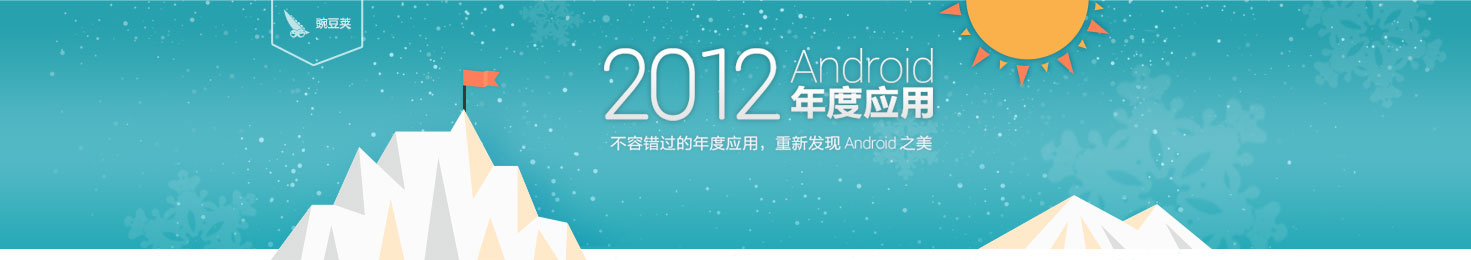
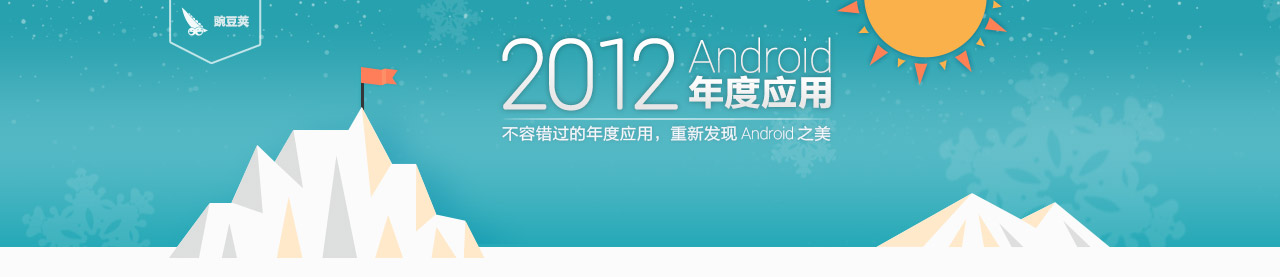
95% accomplished

diff --git a/app/cat.html b/app/cat.html
@@ -3,22 +3,31 @@
     <head>
         <meta charset="utf-8">
         <meta http-equiv="X-UA-Compatible" content="IE=edge,chrome=1">
-        <title></title>
+        <title>豌豆荚 2012 Android 年度应用 - 分类最佳</title>
         <meta name="description" content="">
         <meta name="viewport" content="width=device-width">
         <!-- Place favicon.ico and apple-touch-icon.png in the root directory -->
         <link rel="stylesheet" href="styles/main.css">
         <script src="http://wandoujia.com/api/wdapi.js"></script>
         <script>
+var _gaq=[['_setAccount','UA-XXXXX-X'],['_trackPageview']];
+// GA
+function ga(content) {
+    _gaq.push(['_trackEvent', 'Rewind-2012'].concat(content.split(':')));
+}
+function isWdj() {
+    return window.OneRingRequest !== undefined && window.OneRingStreaming !== undefined;
+}
 var meta = {
     data: 'api/cat.json'
 };
         </script>
     </head>
     <body>
+        <a href="http://www.wandoujia.com" class="logo"></a>
         <div class="nav">
             <a href="data.html" class="data"><i></i><span>有趣数据</span></a>
-            <a href="best.html" class="best"><i></i><span>年度应用</span></a>
+            <a href="best.html" class="best" onclick="ga('c2b')"><i></i><span>年度应用</span></a>
             <a href="cat.html" class="cat cat-active"><i></i><span>分类最佳</span></a>
         </div>
         <div class="category">
@@ -50,7 +59,8 @@ var meta = {
 <div id="group-<%= i %>" class="row">
     <% _.each(group, function(block){ %>
         <% if (block.type === 'app') { %>
-    <div class="block block-<%= block.badge === 'choice' ? '2-5' : block.badge === 'best' ? '1-2' : '1-5' %>" style="background-image:url('<%= block.background[1] %>')">
+    <div class="block block-<%= block.badge === 'choice' ? '2-5' : block.badge === 'best' ? '1-2' : '1-5' %>" style="background-image:url('<%= isWdj() ? block.background[0] : block.background[1] %>')">
+    <% if (block.name !== '从缺') { %>
         <span class="panel">
             <span class="icon" style="background-image:url('<%= block.icons[0] %>')"></span>
             <span class="name"><%= block.name %></span>
@@ -64,14 +74,13 @@ var meta = {
         <% } else if (block.badge) { %>
         <span class="badge"><%= block.badge %></span>
         <% } %>
-        <% if (block.name !== '从缺') { %>
         <span class="preview">
             <span class="name"><span class="icon" style="background-image:url('<%= block.icons[0] %>')"></span><%= block.name %></span>
             <span class="info" title="<%= block.tip.content %>"><%= block.tip.content.length > 20 ? block.tip.content.slice(0, 18) + '...' : block.tip.content || '' %></span>
-            <a class="btn-install" href="http://apps.wandoujia.com/apps/<%= block.pn %>/download" name="<%= block.name %>" onclick="return wdapi_apkdl_m(this, 'source');" title="通过豌豆荚下载">安装</a>
+            <a class="btn-install" href="http://apps.wandoujia.com/apps/<%= block.pn %>/download<%= isWdj() ? '#content-type=application&name='+block.name+'&icon='+block.icons[1] : '' %>" name="<%= block.name %>" onclick="ga('download:<%= block.pn %>'); if (!isWdj()) return wdapi_apkdl_m(this, 'source');" title="通过豌豆荚下载">安装</a>
             <a href="###" class="btn-detail" data-modal="<%= block.pn %>">详情</a>
         </span>
-        <% } %>
+    <% } %>
     </div>
         <% } else if (block.type === 'text' && block.cat === 'cat') { %>
     <div class="block-text-1">
@@ -104,7 +113,7 @@ var meta = {
         <div class="app">
             <div class="icon" style="background-image:url('<%= data.icons[1] %>')"></div>
             <div class="name"><%= data.name %></div>
-            <div class="size"><a class="btn-install" href="http://apps.wandoujia.com/apps/<%= data.pn %>/download" name="<%= data.name %>" onclick="return wdapi_apkdl_m(this, 'source');" title="通过豌豆荚下载">安装</a></div>
+            <div class="size"><a class="btn-install" href="http://apps.wandoujia.com/apps/<%= data.pn %>/download<%= isWdj() ? '#content-type=application&name='+data.name+'&icon='+data.icons[1] : '' %>" name="<%= data.name %>" onclick="ga('download:<%= data.pn %>'); if (!isWdj()) return wdapi_apkdl_m(this, 'source');" title="通过豌豆荚下载">安装</a></div>
         </div>
         <div class="verdict">
             <% if (data.intro) { %>
@@ -125,19 +134,20 @@ var meta = {
                 <%= data.comments[1].content %>
             </div>
             <% } %>
-<!--
-            <a href="##" class="btn-share">分享</a>
--->
+            <% if (isWdj()) { %>
+            <a href="##" data-title="<%= data.name %>" data-content="" data-pic=<%data.share_pic%>"" class="btn-share">分享</a>
+            <% } else { %>
             <div class="share-bar">
                 <div class="icons">
                     分享到：
-                    <a href="<%= Share.url %>" title="<%= Share.title %>" data-pic="<%= data.share_pic %>" class="share-to-weibo" onclick="Share.weibo(this.title, this.href, this.getAttribute('data-pic')); return false;"></a>
-                    <a href="<%= Share.url %>" title="<%= Share.title %>" data-pic="<%= data.share_pic %>" class="share-to-qzone" onclick="Share.qq(this.title, this.href, this.getAttribute('data-pic')); return false;"></a>
-                    <a href="<%= Share.url %>" title="<%= Share.title %>" data-pic="<%= data.share_pic %>" class="share-to-renren" onclick="Share.renren(this.title, this.href, this.getAttribute('data-pic')); return false;"></a>
-                    <a href="<%= Share.url %>" title="<%= Share.title %>" data-pic="<%= data.share_pic %>" class="share-to-google" onclick="Share.google(this.title, this.href, this.getAttribute('data-pic')); return false;"></a>
-                    <a href="<%= Share.url %>" title="<%= Share.title %>" data-pic="<%= data.share_pic %>" class="share-to-facebook" onclick="Share.facebook(this.title, this.href, this.getAttribute('data-pic')); return false;"></a>
+                    <a href="<%= Share.url %>" title="<%= Share.title %>" data-pic="<%= data.share_pic %>" class="share-to-weibo" onclick="ga('share:<%= data.pn %>'); Share.weibo(this.title, this.href, this.getAttribute('data-pic')); return false;"></a>
+                    <a href="<%= Share.url %>" title="<%= Share.title %>" data-pic="<%= data.share_pic %>" class="share-to-qzone" onclick="ga('share:<%= data.pn %>'); Share.qq(this.title, this.href, this.getAttribute('data-pic')); return false;"></a>
+                    <a href="<%= Share.url %>" title="<%= Share.title %>" data-pic="<%= data.share_pic %>" class="share-to-renren" onclick="ga('share:<%= data.pn %>'); Share.renren(this.title, this.href, this.getAttribute('data-pic')); return false;"></a>
+                    <a href="<%= Share.url %>" title="<%= Share.title %>" data-pic="<%= data.share_pic %>" class="share-to-google" onclick="ga('share:<%= data.pn %>'); Share.google(this.title, this.href, this.getAttribute('data-pic')); return false;"></a>
+                    <a href="<%= Share.url %>" title="<%= Share.title %>" data-pic="<%= data.share_pic %>" class="share-to-facebook" onclick="ga('share:<%= data.pn %>'); Share.facebook(this.title, this.href, this.getAttribute('data-pic')); return false;"></a>
                 </div>
             </div>
+            <% } %>
         </div>
     </div>
 </div>
@@ -148,5 +158,11 @@ var meta = {
         <script src="scripts/vendor/underscore.js"></script>
         <script src="scripts/main.js"></script>
         <!-- endbuild -->
+
+        <script>
+            (function(d,t){var g=d.createElement(t),s=d.getElementsByTagName(t)[0];
+            g.src=('https:'==location.protocol?'//ssl':'//www')+'.google-analytics.com/ga.js';
+            s.parentNode.insertBefore(g,s)}(document,'script'));
+        </script>
     </body>
 </html>

diff --git a/app/best.html b/app/best.html
@@ -3,23 +3,32 @@
     <head>
         <meta charset="utf-8">
         <meta http-equiv="X-UA-Compatible" content="IE=edge,chrome=1">
-        <title></title>
+        <title>豌豆荚 2012 Android 年度应用 - 年度应用</title>
         <meta name="description" content="">
         <meta name="viewport" content="width=device-width">
         <!-- Place favicon.ico and apple-touch-icon.png in the root directory -->
         <link rel="stylesheet" href="styles/main.css">
         <script src="http://wandoujia.com/api/wdapi.js"></script>
         <script>
+var _gaq=[['_setAccount','UA-XXXXX-X'],['_trackPageview']];
+// GA
+function ga(content) {
+    _gaq.push(['_trackEvent', 'Rewind-2012'].concat(content.split(':')));
+}
+function isWdj() {
+    return window.OneRingRequest !== undefined && window.OneRingStreaming !== undefined;
+}
 var meta = {
     data: 'api/best.json'
 };
         </script>
     </head>
     <body>
+        <a href="http://www.wandoujia.com" class="logo"></a>
         <div class="nav">
             <a href="data.html" class="data"><i></i><span>有趣数据</span></a>
             <a href="best.html" class="best best-active"><i></i><span>年度应用</span></a>
-            <a href="cat.html" class="cat"><i></i><span>分类最佳</span></a>
+            <a href="cat.html" class="cat" onclick="ga('b2c')"><i></i><span>分类最佳</span></a>
         </div>
         <div class="container" data-template-container style="margin-top: 20px;"></div>
 
@@ -37,7 +46,7 @@ var meta = {
 <div id="group-<%= i %>" class="row">
     <% _.each(group, function(block){ %>
         <% if (block.type === 'app') { %>
-    <div class="block block-<%= block.badge === 'choice' ? '2-5' : block.badge === 'best' ? '1-2' : '1-5' %>" style="background-image:url('<%= block.background[1] %>')">
+    <div class="block block-<%= block.badge === 'choice' ? '2-5' : block.badge === 'best' ? '1-2' : '1-5' %>" style="background-image:url('<%= isWdj() ? block.background[0] : block.background[1] %>')">
         <span class="panel">
             <span class="icon" style="background-image:url('<%= block.icons[0] %>')"></span>
             <span class="name"><%= block.name %></span>
@@ -54,7 +63,7 @@ var meta = {
         <span class="preview">
             <span class="name"><span class="icon" style="background-image:url('<%= block.icons[0] %>')"></span><%= block.name %></span>
             <span class="info" title="<%= block.tip.content %>"><%= block.tip.content.length > 20 ? block.tip.content.slice(0, 18) + '...' : block.tip.content %></span>
-            <a class="btn-install" href="http://apps.wandoujia.com/apps/<%= block.pn %>/download" name="<%= block.name %>" onclick="return wdapi_apkdl_m(this, 'source');" title="通过豌豆荚下载">安装</a>
+            <a class="btn-install" href="http://apps.wandoujia.com/apps/<%= block.pn %>/download<%= isWdj() ? '#content-type=application&name='+block.name+'&icon='+block.icons[1] : '' %>" name="<%= block.name %>" onclick="ga('download:<%= block.pn %>'); if (!isWdj()) return wdapi_apkdl_m(this, 'source');" title="通过豌豆荚下载">安装</a>
             <a href="###" class="btn-detail" data-modal="<%= block.pn %>">详情</a>
         </span>
     </div>
@@ -89,7 +98,7 @@ var meta = {
         <div class="app">
             <div class="icon" style="background-image:url('<%= data.icons[1] %>')"></div>
             <div class="name"><%= data.name %></div>
-            <div class="size"><a class="btn-install" href="http://apps.wandoujia.com/apps/<%= data.pn %>/download" name="<%= data.name %>" onclick="return wdapi_apkdl_m(this, 'source');" title="通过豌豆荚下载">安装</a></div>
+            <div class="size"><a class="btn-install" href="http://apps.wandoujia.com/apps/<%= data.pn %>/download<%= isWdj() ? '#content-type=application&name='+data.name+'&icon='+data.icons[1] : '' %>" name="<%= data.name %>" onclick="ga('download:<%= data.pn %>'); if (!isWdj()) return wdapi_apkdl_m(this, 'source');" title="通过豌豆荚下载">安装</a></div>
         </div>
         <div class="verdict">
             <% if (data.intro) { %>
@@ -110,19 +119,20 @@ var meta = {
                 <%= data.comments[1].content %>
             </div>
             <% } %>
-<!--
-            <a href="##" class="btn-share">分享</a>
--->
+            <% if (isWdj()) { %>
+            <a href="##" data-title="<%= data.name %>" data-content="" data-pic=<%data.share_pic%>"" class="btn-share">分享</a>
+            <% } else { %>
             <div class="share-bar">
                 <div class="icons">
                     分享到：
-                    <a href="<%= Share.url %>" title="<%= Share.title %>" data-pic="<%= data.share_pic %>" class="share-to-weibo" onclick="Share.weibo(this.title, this.href, this.getAttribute('data-pic')); return false;"></a>
-                    <a href="<%= Share.url %>" title="<%= Share.title %>" data-pic="<%= data.share_pic %>" class="share-to-qzone" onclick="Share.qq(this.title, this.href, this.getAttribute('data-pic')); return false;"></a>
-                    <a href="<%= Share.url %>" title="<%= Share.title %>" data-pic="<%= data.share_pic %>" class="share-to-renren" onclick="Share.renren(this.title, this.href, this.getAttribute('data-pic')); return false;"></a>
-                    <a href="<%= Share.url %>" title="<%= Share.title %>" data-pic="<%= data.share_pic %>" class="share-to-google" onclick="Share.google(this.title, this.href, this.getAttribute('data-pic')); return false;"></a>
-                    <a href="<%= Share.url %>" title="<%= Share.title %>" data-pic="<%= data.share_pic %>" class="share-to-facebook" onclick="Share.facebook(this.title, this.href, this.getAttribute('data-pic')); return false;"></a>
+                    <a href="<%= Share.url %>" title="<%= Share.title %>" data-pic="<%= data.share_pic %>" class="share-to-weibo" onclick="ga('share:<%= data.pn %>'); Share.weibo(this.title, this.href, this.getAttribute('data-pic')); return false;"></a>
+                    <a href="<%= Share.url %>" title="<%= Share.title %>" data-pic="<%= data.share_pic %>" class="share-to-qzone" onclick="ga('share:<%= data.pn %>'); Share.qq(this.title, this.href, this.getAttribute('data-pic')); return false;"></a>
+                    <a href="<%= Share.url %>" title="<%= Share.title %>" data-pic="<%= data.share_pic %>" class="share-to-renren" onclick="ga('share:<%= data.pn %>'); Share.renren(this.title, this.href, this.getAttribute('data-pic')); return false;"></a>
+                    <a href="<%= Share.url %>" title="<%= Share.title %>" data-pic="<%= data.share_pic %>" class="share-to-google" onclick="ga('share:<%= data.pn %>'); Share.google(this.title, this.href, this.getAttribute('data-pic')); return false;"></a>
+                    <a href="<%= Share.url %>" title="<%= Share.title %>" data-pic="<%= data.share_pic %>" class="share-to-facebook" onclick="ga('share:<%= data.pn %>'); Share.facebook(this.title, this.href, this.getAttribute('data-pic')); return false;"></a>
                 </div>
             </div>
+            <% } %>
         </div>
     </div>
 </div>
@@ -133,5 +143,12 @@ var meta = {
         <script src="scripts/vendor/underscore.js"></script>
         <script src="scripts/main.js"></script>
         <!-- endbuild -->
+
+        <script>
+            var _gaq=[['_setAccount','UA-XXXXX-X'],['_trackPageview']];
+            (function(d,t){var g=d.createElement(t),s=d.getElementsByTagName(t)[0];
+            g.src=('https:'==location.protocol?'//ssl':'//www')+'.google-analytics.com/ga.js';
+            s.parentNode.insertBefore(g,s)}(document,'script'));
+        </script>
     </body>
 </html>

diff --git a/app/scripts/main.js b/app/scripts/main.js
@@ -6,22 +6,22 @@
     var data = [];
     // Sharing
     window.Share = {
-        url: 'http://apps.wandoujia.com',
+        url: 'http://www.wandoujia.com/2012rewind/best?utm_source=sharing&utm_campaign=2012rewind&utm_medium=',
         title: '豌豆荚 2012 Android 年度应用',
         weibo: function(title, url, pic) {
-            window.open('http://service.weibo.com/share/share.php?appkey=1483181040&relateUid=1727978503&title=' + encodeURIComponent(title) + '&url='+encodeURIComponent(url)+'&pic='+encodeURIComponent(pic));
+            window.open('http://service.weibo.com/share/share.php?appkey=1483181040&relateUid=1727978503&title=' + encodeURIComponent(title) + '&url='+encodeURIComponent(url + 'weibo')+'&pic='+encodeURIComponent(pic));
         },
         renren: function(title, url, pic) {
-            window.open('http://widget.renren.com/dialog/share?title='+encodeURIComponent(title)+'&resourceUrl='+encodeURIComponent(url)+'&pic='+encodeURIComponent(pic));
+            window.open('http://widget.renren.com/dialog/share?title='+encodeURIComponent(title)+'&resourceUrl='+encodeURIComponent(url + 'renren')+'&pic='+encodeURIComponent(pic));
         },
         qq: function(title, url, pic) {
-            window.open('http://sns.qzone.qq.com/cgi-bin/qzshare/cgi_qzshare_onekey?title='+encodeURIComponent(title)+'&summary=aaa&pics='+encodeURIComponent(pic)+'&url='+encodeURIComponent(pic));
+            window.open('http://sns.qzone.qq.com/cgi-bin/qzshare/cgi_qzshare_onekey?title='+encodeURIComponent(title)+'&summary=aaa&pics='+encodeURIComponent(pic)+'&url='+encodeURIComponent(url + 'qq'));
         },
         google: function(url) {
-            window.open('https://plus.google.com/share?url='+encodeURIComponent(url));
+            window.open('https://plus.google.com/share?url='+encodeURIComponent(url + 'google'));
         },
         facebook: function(title, url, pic) {
-            window.open('https://www.facebook.com/sharer/sharer.php?s=100&p%5Btitle%5D='+encodeURIComponent(title)+'&p%5Bsummary%5D='+encodeURIComponent(Share.title)+'&p%5Burl%5D='+encodeURIComponent(url)+'&p%5Bimages%5D%5B0%5D='+encodeURIComponent(pic));
+            window.open('https://www.facebook.com/sharer/sharer.php?s=100&p%5Btitle%5D='+encodeURIComponent(title)+'&p%5Bsummary%5D='+encodeURIComponent(Share.title)+'&p%5Burl%5D='+encodeURIComponent(url + 'facebook')+'&p%5Bimages%5D%5B0%5D='+encodeURIComponent(pic));
         }
     };
     // Block
@@ -81,6 +81,7 @@
         modal._data = datum;
         modal.$panel.find('.bd').html(_.template($('#tpl-modal').html(), {data: datum}));
         modal.open();
+        ga('detail:' + datum.pn);
     }).on('click', '.preview', function(e) {
         var target = $(e.target);
         if (!target.hasClass('btn-install') && !target.hasClass('btn-detail')) {

diff --git a/app/styles/_modal.scss b/app/styles/_modal.scss
@@ -84,6 +84,7 @@
                     border-radius: 20px;
                     @include box-shadow(0 0 7px rgba(0,0,0,0.19));
                     @include float-left;
+                    margin-left: 5px;
                     margin-right: 15px;
                     background-position: center center;
                 }

diff --git a/app/styles/_block.scss b/app/styles/_block.scss
@@ -42,8 +42,8 @@
         left: 0;
         width: 100%;
         height: 44px;
-        background-color: #fff;
         background-color: rgba(255, 255, 255, 0.9);
+        background-color: #fff\9;
         overflow: hidden;
         .icon {
             position: absolute;

diff --git a/app/styles/main.scss b/app/styles/main.scss
@@ -8,7 +8,7 @@ body {
     margin:0;
     padding:0;
     padding-top: 258px;
-    background: image-url("banner.jpg") center top no-repeat;
+    background: #fbfbfb image-url("banner.jpg") center top no-repeat;
 }
 a {
     color: #000;

diff --git a/app/styles/_nav.scss b/app/styles/_nav.scss
@@ -1,3 +1,11 @@
+.logo {
+    position: absolute;
+    left: 50%;
+    top: 0;
+    margin-left: -470px;
+    width: 100px;
+    height: 80px;
+}
 .nav {
     @import "icon/*.png";
     position: absolute;
